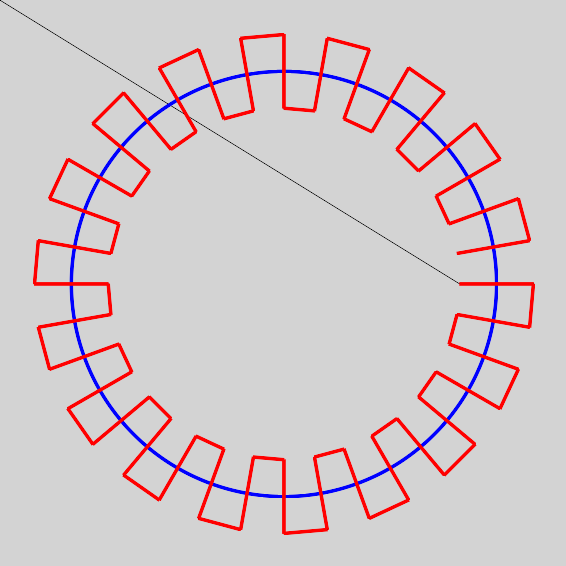
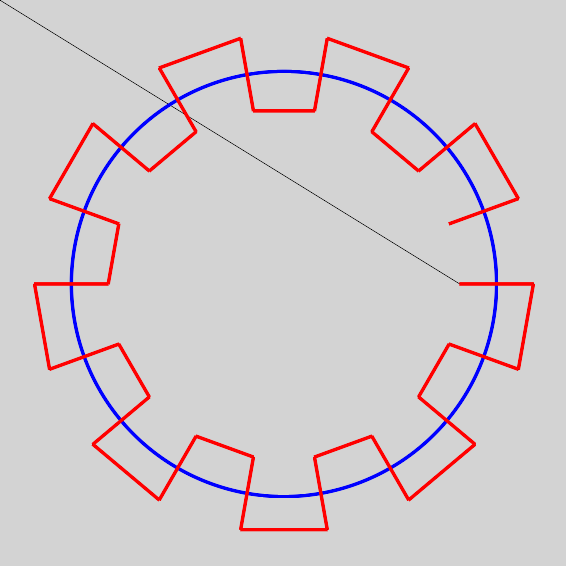
Update

diff --git a/lines.rb b/lines.rb
@@ -25,7 +25,7 @@ RVG::dpi = 72
 radius = 10 * 15/2.0 # mm approximately !!! change 1 to 10 to view zoomed in
 crown_height = 2.5 # mm
 hub_height = 6.25 # mm
-teeth = 36
+teeth = 36 / 2
 
 # gcode settings
 offset = 13 # mm
